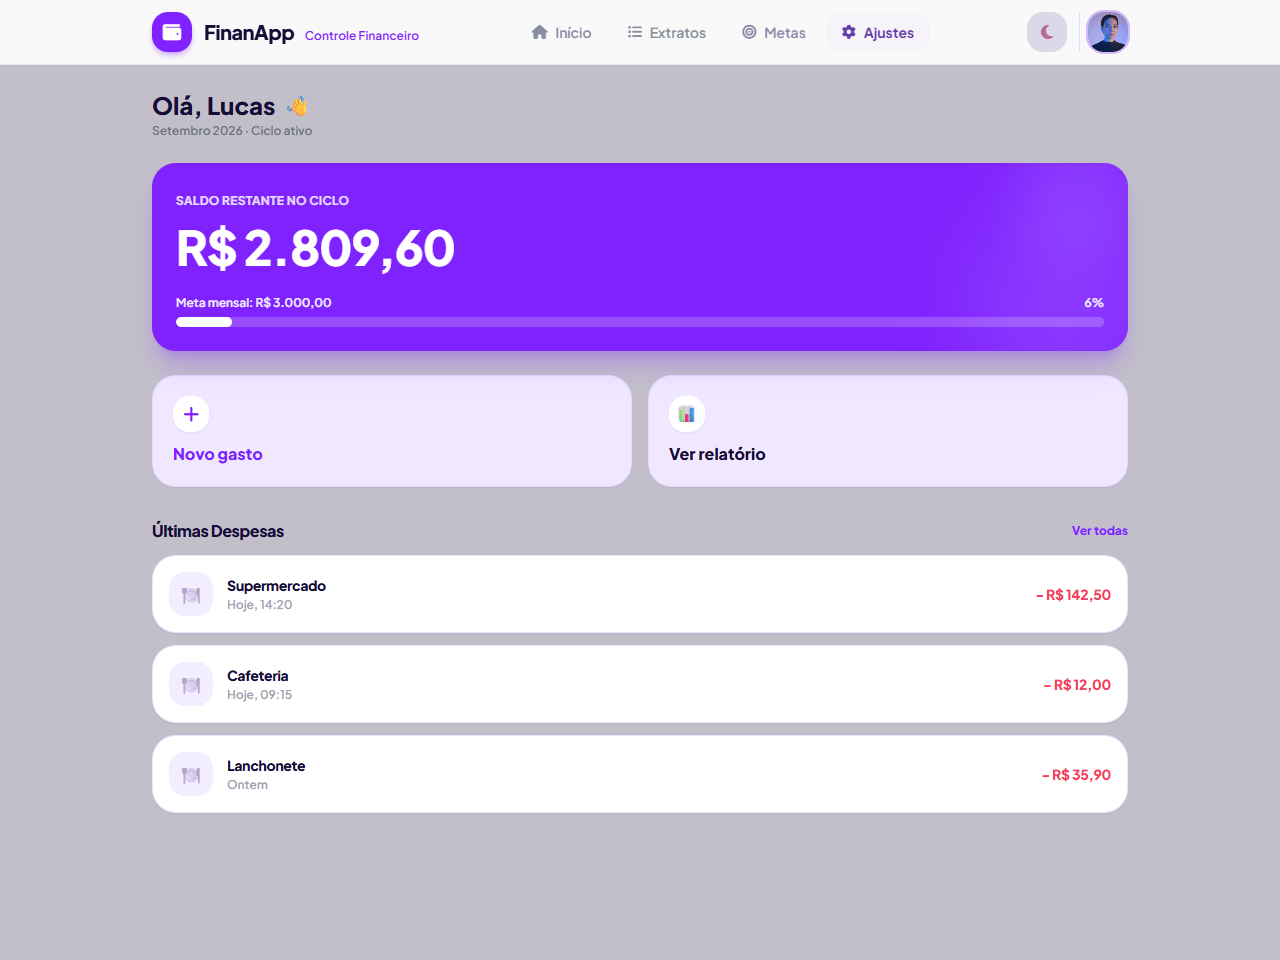
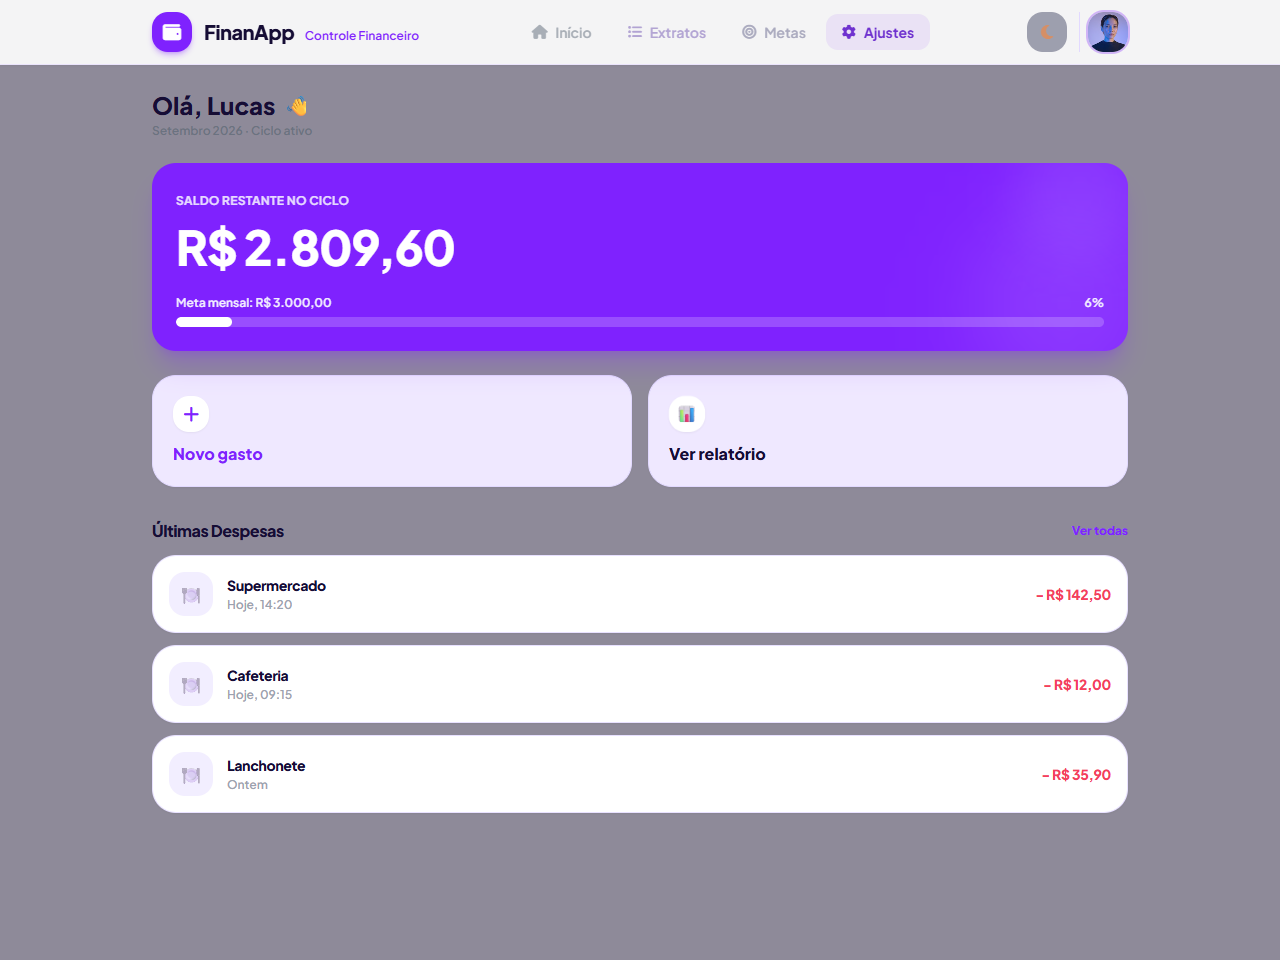
prototipação de alta fidelidade servidor estático

diff --git a/public/prototipo-alta-fidelidade/app.js b/public/prototipo-alta-fidelidade/app.js
@@ -15,8 +15,30 @@
         let activeFilter = 'todos';
         let cashChart = null;
         let categoryChart = null;
+        let modalTrigger = null;
+
+        function showDialog(id, inputId) {
+            modalTrigger = document.activeElement;
+            document.getElementById(id).classList.remove('hidden');
+            document.body.style.overflow = 'hidden';
+            document.getElementById(inputId).focus();
+        }
+
+        function hideDialog(id) {
+            const dialog = document.getElementById(id);
+            if (dialog.classList.contains('hidden')) return;
+            dialog.classList.add('hidden');
+            document.body.style.overflow = '';
+            modalTrigger?.focus();
+        }
 
         window.onload = function() {
+            document.querySelectorAll('input[type="text"]').forEach(input => {
+                input.addEventListener('input', () => input.setCustomValidity(''));
+            });
+            document.querySelectorAll('[role="dialog"] button').forEach(button => {
+                if (!button.textContent.trim()) button.setAttribute('aria-label', 'Fechar janela');
+            });
             renderAll();
             if (typeof Chart !== 'undefined') {
                 initCharts();
@@ -28,9 +50,23 @@
             });
             document.getElementById('theme-toggle').setAttribute('aria-label', 'Alternar tema');
             document.addEventListener('keydown', event => {
+                const dialog = document.querySelector('[role="dialog"]:not(.hidden)');
+                if (!dialog) return;
                 if (event.key === 'Escape') {
                     closeModal();
                     closeGoalModal();
+                }
+                if (event.key === 'Tab') {
+                    const controls = [...dialog.querySelectorAll('button, input:not([type="hidden"]), select')];
+                    const first = controls[0];
+                    const last = controls[controls.length - 1];
+                    if (event.shiftKey && document.activeElement === first) {
+                        event.preventDefault();
+                        last.focus();
+                    } else if (!event.shiftKey && document.activeElement === last) {
+                        event.preventDefault();
+                        first.focus();
+                    }
                 }
             });
         };
@@ -207,12 +243,13 @@
         // MODAL CONTROLS
         function openModal(type = 'despesa') {
             setModalType(type);
-            document.getElementById('transaction-modal').classList.remove('hidden');
+            showDialog('transaction-modal', 'tx-desc');
         }
 
         function closeModal() {
-            document.getElementById('transaction-modal').classList.add('hidden');
+            hideDialog('transaction-modal');
             document.getElementById('transaction-form').reset();
+            document.getElementById('tx-desc').setCustomValidity('');
         }
 
         function setModalType(type) {
@@ -231,7 +268,10 @@
 
         function handleFormSubmit(e) {
             e.preventDefault();
-            const desc = document.getElementById('tx-desc').value;
+            const descriptionInput = document.getElementById('tx-desc');
+            const desc = descriptionInput.value.trim();
+            descriptionInput.setCustomValidity(desc ? '' : 'Informe uma descrição.');
+            if (!document.getElementById('transaction-form').reportValidity()) return;
             const amt = parseFloat(document.getElementById('tx-amount').value);
             const cat = document.getElementById('tx-category').value;
             const type = document.getElementById('tx-type').value;
@@ -255,17 +295,21 @@
         }
 
         function openGoalModal() {
-            document.getElementById('goal-modal').classList.remove('hidden');
+            showDialog('goal-modal', 'goal-title');
         }
 
         function closeGoalModal() {
-            document.getElementById('goal-modal').classList.add('hidden');
+            hideDialog('goal-modal');
             document.getElementById('goal-form').reset();
+            document.getElementById('goal-title').setCustomValidity('');
         }
 
         function handleGoalSubmit(e) {
             e.preventDefault();
-            const title = document.getElementById('goal-title').value;
+            const titleInput = document.getElementById('goal-title');
+            const title = titleInput.value.trim();
+            titleInput.setCustomValidity(title ? '' : 'Informe um título para a meta.');
+            if (!document.getElementById('goal-form').reportValidity()) return;
             const target = parseFloat(document.getElementById('goal-target').value);
             const current = parseFloat(document.getElementById('goal-current').value);
 

diff --git a/docs/10_prototipacao_figma.md b/docs/10_prototipacao_figma.md
@@ -2,6 +2,12 @@
 
 ## Evolução dos protótipos
 
+### Registro da conclusão desta etapa
+
+A alta fidelidade foi concluída e documentada após o início da implementação final em React. Trata-se de uma formalização retrospectiva da etapa: a ordem da tabela abaixo representa o processo de projeto previsto, e não a cronologia dos commits. A entrega permite demonstrar e avaliar as interações com dados fictícios em HTML, CSS e JavaScript, separadamente da aplicação final.
+
+Os arquivos oficiais desta entrega estão em `public/prototipo-alta-fidelidade/`. Os arquivos `prototype.html`, `prototype.css` e `prototype.js` na raiz são referências anteriores; para apresentação e avaliação, utilize a versão indicada nesta página.
+
 | Etapa | Entrega | Finalidade |
 | --- | --- | --- |
 | Baixa fidelidade | [Protótipo em papel](9_prototipacao_papel.md) | Explorar a organização das telas. |
@@ -45,7 +51,11 @@ O Vite copia esses arquivos de `public/` para `dist/`, disponibilizando o protó
 
 ## Verificação
 
+Os formulários impedem valores inválidos e títulos ou descrições compostos apenas por espaços. As janelas recebem o foco ao abrir, mantêm a navegação por Tab em seus controles, fecham com Escape e devolvem o foco ao botão de origem. Cancelar não adiciona dados. O cenário inicial contém R$ 3.000,00 de receitas e R$ 190,40 de despesas, resultando em saldo de R$ 2.809,60; após o almoço de R$ 25,00 do roteiro, o saldo esperado é R$ 2.784,60.
+
 Execute `node verify-prototipo.mjs` com Microsoft Edge instalado e acesso à internet. A verificação cobre cadastro, busca, filtros, exclusão, criação de meta, alteração de orçamento, tema e navegação móvel. Capturas: [desktop](verificacao/alta-fidelidade/desktop.png) e [celular](verificacao/alta-fidelidade/mobile.png).
+
+Para conferir a distribuição junto da aplicação final, execute `npm run build`: o resultado deve conter `dist/prototipo-alta-fidelidade/index.html`, `styles.css`, `tema.js` e `app.js`. As verificações técnicas não substituem os testes de usabilidade com participantes descritos nas etapas de avaliação.
 
 ## Limites da simulação
 
